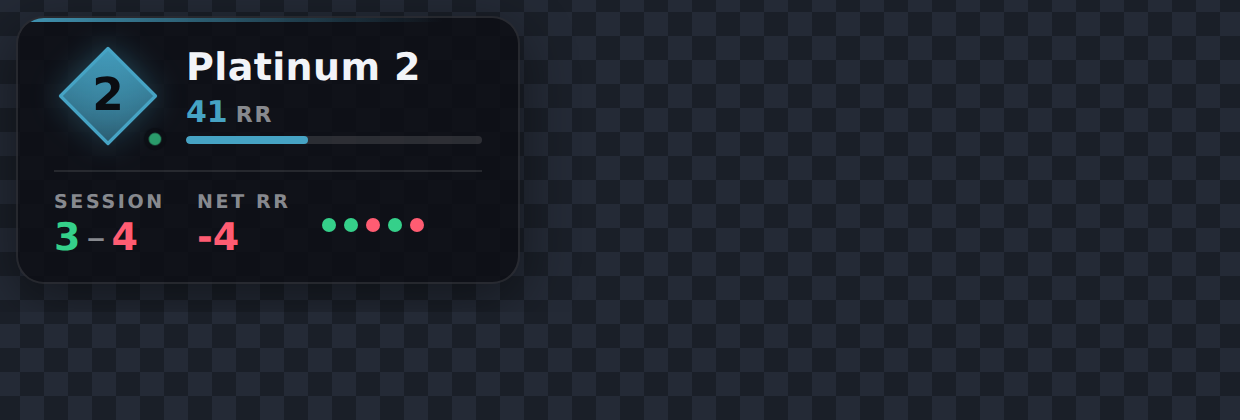
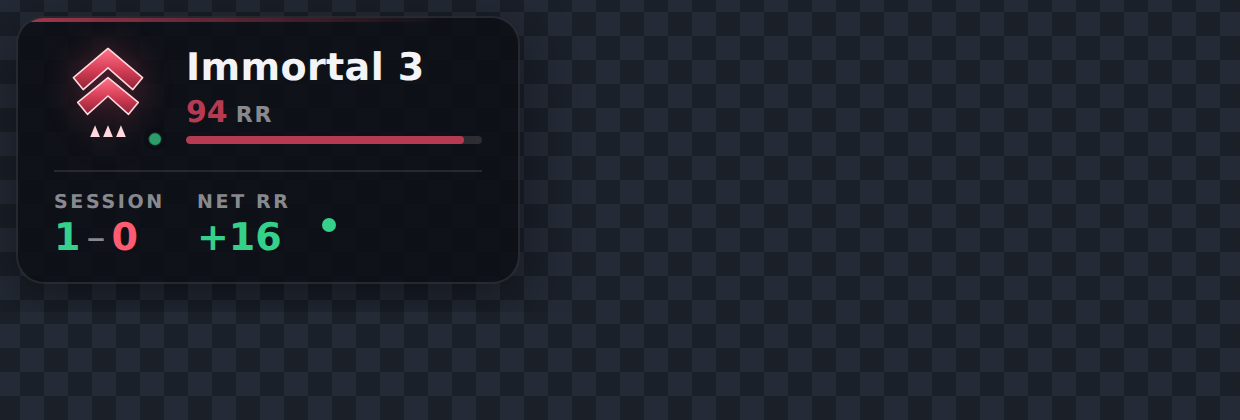
Use real rank art, with Immortal and Radiant artwork as fallback
Riot's own rank icons were already downloaded at runtime, but the built-in
fallback drew a generic coloured diamond for every tier. Immortal 1-3 and
Radiant now have their own drawn artwork — a crimson crest with 1-3 pips,
and a gold starburst — so the overlay reads correctly even when the icons
cannot be fetched.

Immortal and Radiant are also fetched ahead of the other tiers, and any
image dropped in public/ranks overrides the downloaded art entirely, which
is the reliable way to get exact icons without depending on the fetch.

Icon resolution is now override, then cached, then remote, then drawn.
--mock starts at Immortal 2 so the bracket is easy to preview.

Claude-Session: https://claude.ai/code/session_014epAdVG6nghE57LguvVZfM

diff --git a/valorant-overlay/public/overlay.js b/valorant-overlay/public/overlay.js
@@ -73,25 +73,72 @@ function render(state) {
 }
 
 /**
- * Riot's own rank art is used when the agent has it cached. If the art could
- * not be fetched, draw a rank-coloured badge instead so the overlay never
- * shows a broken image on stream.
+ * Riot's own rank art is used whenever the agent has it. These drawings are
+ * only the fallback for when it could not be fetched — close enough to read
+ * correctly at a glance on stream, but not Riot's artwork.
  */
-function renderBadge(state) {
+function immortalArt(subTier) {
+  // 1-3 pips below the crest mark Immortal 1, 2 and 3.
+  const pips = Array.from({ length: subTier }, (_, i) => {
+    const x = 50 + (i - (subTier - 1) / 2) * 12
+    return `<path d="M${x - 4.5} 88 L${x} 77 L${x + 4.5} 88 Z" />`
+  }).join('')
+
+  return `
+    <defs>
+      <linearGradient id="art" x1="0" y1="0" x2="0" y2="1">
+        <stop offset="0%" stop-color="#FF7286" />
+        <stop offset="55%" stop-color="#D33B54" />
+        <stop offset="100%" stop-color="#8E2438" />
+      </linearGradient>
+    </defs>
+    <g fill="url(#art)" stroke="#FFD9DF" stroke-width="1.5" stroke-linejoin="round">
+      <path d="M50 6 L82 33 L73 44 L50 24 L27 44 L18 33 Z" />
+      <path d="M50 33 L78 56 L69 67 L50 50 L31 67 L22 56 Z" />
+    </g>
+    <g fill="#FFD9DF">${pips}</g>`
+}
+
+function radiantArt() {
+  // A ring of spikes around a bright core, long every third ray.
+  const rays = Array.from({ length: 12 }, (_, i) => {
+    const length = i % 3 === 0 ? 46 : 31
+    const shoulder = 50 - length * 0.2
+    return `<path d="M50 ${50 - length} L54.5 ${shoulder} L50 50 L45.5 ${shoulder} Z"
+      transform="rotate(${i * 30} 50 50)" />`
+  }).join('')
+
+  return `
+    <defs>
+      <radialGradient id="art">
+        <stop offset="0%" stop-color="#FFFFFF" />
+        <stop offset="45%" stop-color="#FFF6C9" />
+        <stop offset="100%" stop-color="#E3BE5C" />
+      </radialGradient>
+    </defs>
+    <g fill="url(#art)">${rays}</g>
+    <circle cx="50" cy="50" r="8.5" fill="#FFFDF2" />`
+}
+
+function divisionArt(state) {
   const division = state.rank.division || ''
-  el.badge.innerHTML = `
-    <svg viewBox="0 0 100 100" role="img" aria-label="${state.rank.name}">
-      <defs>
-        <linearGradient id="badge" x1="0" y1="0" x2="0" y2="1">
-          <stop offset="0%" stop-color="${state.rank.color}" stop-opacity="0.95" />
-          <stop offset="100%" stop-color="${state.rank.color}" stop-opacity="0.45" />
-        </linearGradient>
-      </defs>
-      <path d="M50 6 94 50 50 94 6 50Z" fill="url(#badge)" stroke="${state.rank.color}" stroke-width="3"
-        stroke-linejoin="round" />
-      <text x="50" y="50" text-anchor="middle" dominant-baseline="central" fill="#0b0d12"
-        font-family="Inter, Segoe UI, system-ui, sans-serif" font-size="42" font-weight="700">${division || '–'}</text>
-    </svg>`
+  return `
+    <defs>
+      <linearGradient id="art" x1="0" y1="0" x2="0" y2="1">
+        <stop offset="0%" stop-color="${state.rank.color}" stop-opacity="0.95" />
+        <stop offset="100%" stop-color="${state.rank.color}" stop-opacity="0.45" />
+      </linearGradient>
+    </defs>
+    <path d="M50 6 94 50 50 94 6 50Z" fill="url(#art)" stroke="${state.rank.color}" stroke-width="3"
+      stroke-linejoin="round" />
+    <text x="50" y="50" text-anchor="middle" dominant-baseline="central" fill="#0b0d12"
+      font-family="Inter, Segoe UI, system-ui, sans-serif" font-size="42" font-weight="700">${division || '\u2013'}</text>`
+}
+
+function renderBadge(state) {
+  const tier = state.rank.tier
+  const art = tier >= 27 ? radiantArt() : tier >= 24 ? immortalArt(tier - 23) : divisionArt(state)
+  el.badge.innerHTML = `<svg viewBox="0 0 100 100" role="img" aria-label="${state.rank.name}">${art}</svg>`
 }
 
 function showBadge(state) {

diff --git a/valorant-overlay/src/riot/tiers.js b/valorant-overlay/src/riot/tiers.js
@@ -47,9 +47,14 @@ function hexFromRiot(color) {
   return `#${color.slice(0, 6).toUpperCase()}`
 }
 
+// Immortal and Radiant, fetched before everything else.
+const PRIORITY_TIERS = [27, 26, 25, 24]
+const OVERRIDE_EXTENSIONS = ['png', 'svg', 'webp', 'jpg', 'jpeg']
+
 export class TierCatalog {
-  constructor(cacheDir) {
+  constructor(cacheDir, overrideDir) {
     this.iconDir = path.join(cacheDir, 'icons')
+    this.overrideDir = overrideDir
     this.tiers = fallbackTiers()
     this.actId = null
     fs.mkdirSync(this.iconDir, { recursive: true })
@@ -101,30 +106,47 @@ export class TierCatalog {
 
   /** Store icons locally so the overlay renders even without internet in OBS. */
   async cacheIcons() {
-    await Promise.all(
-      Object.values(this.tiers).map(async (tier) => {
-        if (!tier.icon) return
-        const file = path.join(this.iconDir, `${tier.tier}.png`)
-        if (fs.existsSync(file)) return
-        try {
-          const res = await request(tier.icon, { timeout: 15000 })
-          if (res.status === 200) fs.writeFileSync(file, res.buffer)
-        } catch {
-          // The overlay falls back to the remote URL.
-        }
-      }),
-    )
+    const all = Object.values(this.tiers)
+    const priority = all.filter((tier) => PRIORITY_TIERS.includes(tier.tier))
+    const rest = all.filter((tier) => !PRIORITY_TIERS.includes(tier.tier))
+
+    // Immortal and Radiant first, so the ranks in play are ready soonest.
+    await Promise.all(priority.map((tier) => this.cacheIcon(tier)))
+    await Promise.all(rest.map((tier) => this.cacheIcon(tier)))
+  }
+
+  async cacheIcon(tier) {
+    if (!tier.icon) return
+    const file = path.join(this.iconDir, `${tier.tier}.png`)
+    if (fs.existsSync(file)) return
+    try {
+      const res = await request(tier.icon, { timeout: 15000 })
+      if (res.status === 200) fs.writeFileSync(file, res.buffer)
+    } catch {
+      // The overlay falls back to the remote URL, then to drawn artwork.
+    }
+  }
+
+  /** An image dropped in public/ranks (e.g. 27.png) wins over everything. */
+  overrideFor(tier) {
+    if (!this.overrideDir) return null
+    for (const extension of OVERRIDE_EXTENSIONS) {
+      if (fs.existsSync(path.join(this.overrideDir, `${tier}.${extension}`))) {
+        return `/ranks/${tier}.${extension}`
+      }
+    }
+    return null
   }
 
   get(tier) {
     const known = this.tiers[tier]
-    if (known) {
-      const cached = path.join(this.iconDir, `${tier}.png`)
-      return {
-        ...known,
-        localIcon: fs.existsSync(cached) ? `/icons/${tier}.png` : null,
-      }
+    if (!known) {
+      return { tier, name: 'Unranked', group: 'Unranked', division: '', color: '#8B8F94', icon: null }
     }
-    return { tier, name: 'Unranked', group: 'Unranked', division: '', color: '#8B8F94', icon: null, localIcon: null }
+    const cached = path.join(this.iconDir, `${tier}.png`)
+    // Override, then Riot's art cached locally, then Riot's art over the wire.
+    const icon =
+      this.overrideFor(tier) || (fs.existsSync(cached) ? `/icons/${tier}.png` : null) || known.icon || null
+    return { ...known, icon }
   }
 }

diff --git a/valorant-overlay/src/config.js b/valorant-overlay/src/config.js
@@ -10,6 +10,8 @@ const defaults = {
   port: 3040,
   // Where session/record state is kept between restarts.
   stateFile: path.join(root, '.state.json'),
+  // Drop your own rank art here as <tier>.png to override Riot's.
+  overrideDir: path.join(root, 'public', 'ranks'),
   cacheDir: path.join(root, '.cache'),
   // Override only if the Riot Client is installed somewhere unusual.
   lockfilePath: path.join(
@@ -37,6 +39,9 @@ const defaults = {
   activePollMs: 3000,
   // How long to keep fast-polling after a match ends, waiting for RR to land.
   settleWindowMs: 180000,
+  // Starting rank for --mock: Immortal 2 at 60 RR.
+  mockTier: 25,
+  mockRr: 60,
   // Reset the session record automatically if the agent was down this long.
   sessionIdleResetMs: 6 * 60 * 60 * 1000,
 }

diff --git a/valorant-overlay/src/mock.js b/valorant-overlay/src/mock.js
@@ -9,9 +9,9 @@ export class MockTracker extends EventEmitter {
   constructor(config) {
     super()
     this.config = config
-    this.catalog = new TierCatalog(config.cacheDir)
-    this.tier = 16
-    this.rr = 45
+    this.catalog = new TierCatalog(config.cacheDir, config.overrideDir)
+    this.tier = config.mockTier
+    this.rr = config.mockRr
     this.status = 'menus'
     this.games = []
     this.sessionStartedAt = Date.now()
@@ -90,7 +90,7 @@ export class MockTracker extends EventEmitter {
         group: tier.group,
         division: tier.division,
         color: tier.color,
-        icon: tier.localIcon || tier.icon,
+        icon: tier.icon,
         placementsLeft: null,
       },
       rr: this.rr,

diff --git a/valorant-overlay/src/tracker.js b/valorant-overlay/src/tracker.js
@@ -14,7 +14,7 @@ export class Tracker extends EventEmitter {
   constructor(config) {
     super()
     this.config = config
-    this.catalog = new TierCatalog(config.cacheDir)
+    this.catalog = new TierCatalog(config.cacheDir, config.overrideDir)
     this.lock = null
     this.auth = null
     this.identity = null
@@ -265,7 +265,7 @@ export class Tracker extends EventEmitter {
         group: tier.group,
         division: tier.division,
         color: tier.color,
-        icon: tier.localIcon || tier.icon,
+        icon: tier.icon,
         placementsLeft,
       },
       rr,

diff --git a/valorant-overlay/README.md b/valorant-overlay/README.md
@@ -92,6 +92,35 @@ browser source.
 restart, and resets automatically after 6 hours of downtime, so an overnight
 gap starts you fresh. Reset it by hand any time from the control page.
 
+## Rank art
+
+The agent downloads Riot's own rank icons from `valorant-api.com` on first run
+and caches them, so they keep working offline afterwards. Immortal 1-3 and
+Radiant are fetched before the other tiers.
+
+Resolution order for each rank, first hit wins:
+
+1. An image you dropped in `public/ranks` (e.g. `27.png` for Radiant)
+2. Riot's art, cached locally from a previous run
+3. Riot's art, fetched live
+4. Drawn artwork built into the overlay — a crimson crest with 1-3 pips for
+   Immortal, a gold starburst for Radiant. A readable stand-in, not Riot's
+   artwork.
+
+To use exact art of your own, save it as the tier number in `public/ranks` and
+restart the agent — `24.png` Immortal 1, `25.png` Immortal 2, `26.png`
+Immortal 3, `27.png` Radiant. See `public/ranks/README.md` for the full list.
+
+### Immortal and Radiant
+
+Immortal 1, 2 and 3 each run 0-100 RR, so the progress bar behaves as it does
+at any other rank. Radiant RR has no ceiling, so the bar is hidden there and
+the raw number is shown. When you hold a leaderboard position, it appears next
+to your RR as `#142`.
+
+`--mock` starts at Immortal 2 with 60 RR, so promotions into Immortal 3 and
+Radiant show up within a few simulated games.
+
 ## Configuration
 
 Copy `config.example.json` to `config.json` to override defaults:
@@ -103,6 +132,8 @@ Copy `config.example.json` to `config.json` to override defaults:
 | `idlePollMs` | `30000` | Rank poll rate when nothing is happening |
 | `activePollMs` | `3000` | Poll rate in-game and just after a match |
 | `sessionIdleResetMs` | `21600000` | Downtime before the session record resets |
+| `mockTier` | `25` | Starting tier for `--mock` (24-27 = Immortal 1 - Radiant) |
+| `mockRr` | `60` | Starting RR for `--mock` |
 
 ## Troubleshooting
 
@@ -117,9 +148,9 @@ keeps polling for three minutes after a match.
 
 **Port 3040 is in use** — set `port` in `config.json`, and update the OBS URL.
 
-**No rank icon, just a coloured diamond** — the agent could not reach
-`valorant-api.com` to download Riot's rank art. It retries, and the overlay
-stays readable in the meantime.
+**Drawn rank art instead of Riot's** — the agent could not reach
+`valorant-api.com` to download the real icons. It retries on a later run; see
+[Rank art](#rank-art) to drop your own in and skip the download entirely.
 
 **Nothing shows in OBS** — open the URL in a normal browser first. If it works
 there, right-click the source and *Refresh*.
@@ -157,4 +188,5 @@ src/
 public/
   overlay.html/css/js   the overlay itself
   control.html          status, session reset, URL builder
+  ranks/                drop your own rank art here to override Riot's
 ```

diff --git a/valorant-overlay/public/ranks/README.md b/valorant-overlay/public/ranks/README.md
@@ -1,0 +1,18 @@
+# Drop-in rank art
+
+Anything you put here overrides the rank art the agent downloads from Riot.
+Name the file after the competitive tier number:
+
+| File | Rank |
+|---|---|
+| `24.png` | Immortal 1 |
+| `25.png` | Immortal 2 |
+| `26.png` | Immortal 3 |
+| `27.png` | Radiant |
+
+`.png`, `.svg`, `.webp` and `.jpg` all work. Square images look best; the
+overlay scales them to fit. Restart the agent after adding a file.
+
+Full tier numbering, if you need a lower rank: 3–5 Iron 1–3, 6–8 Bronze,
+9–11 Silver, 12–14 Gold, 15–17 Platinum, 18–20 Diamond, 21–23 Ascendant,
+24–26 Immortal, 27 Radiant.
